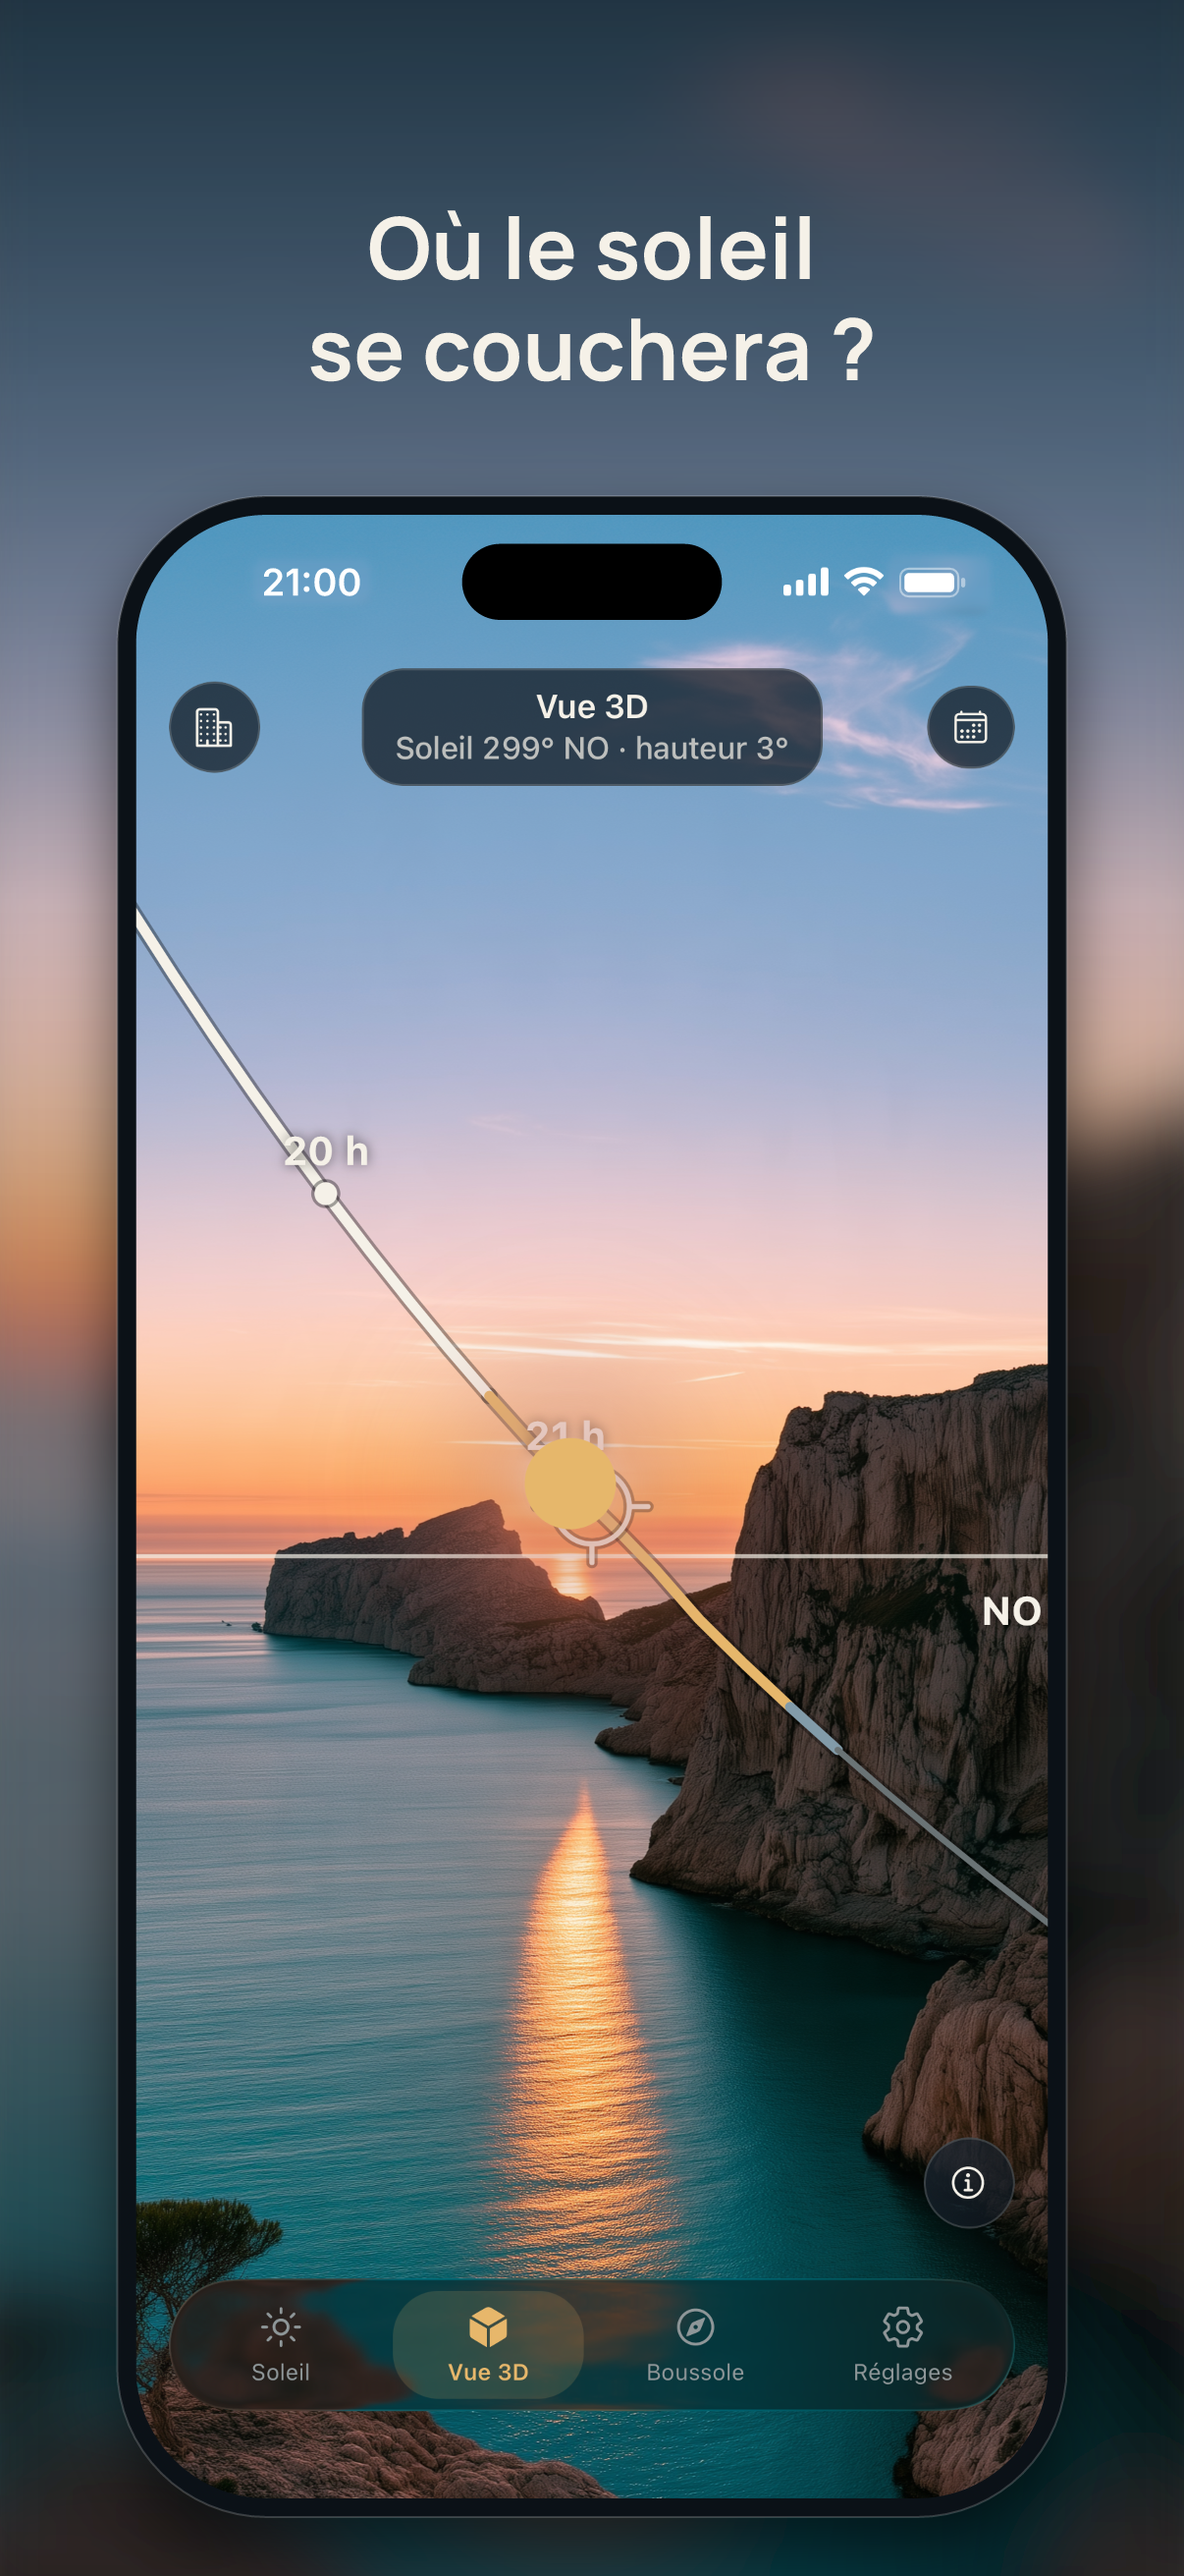
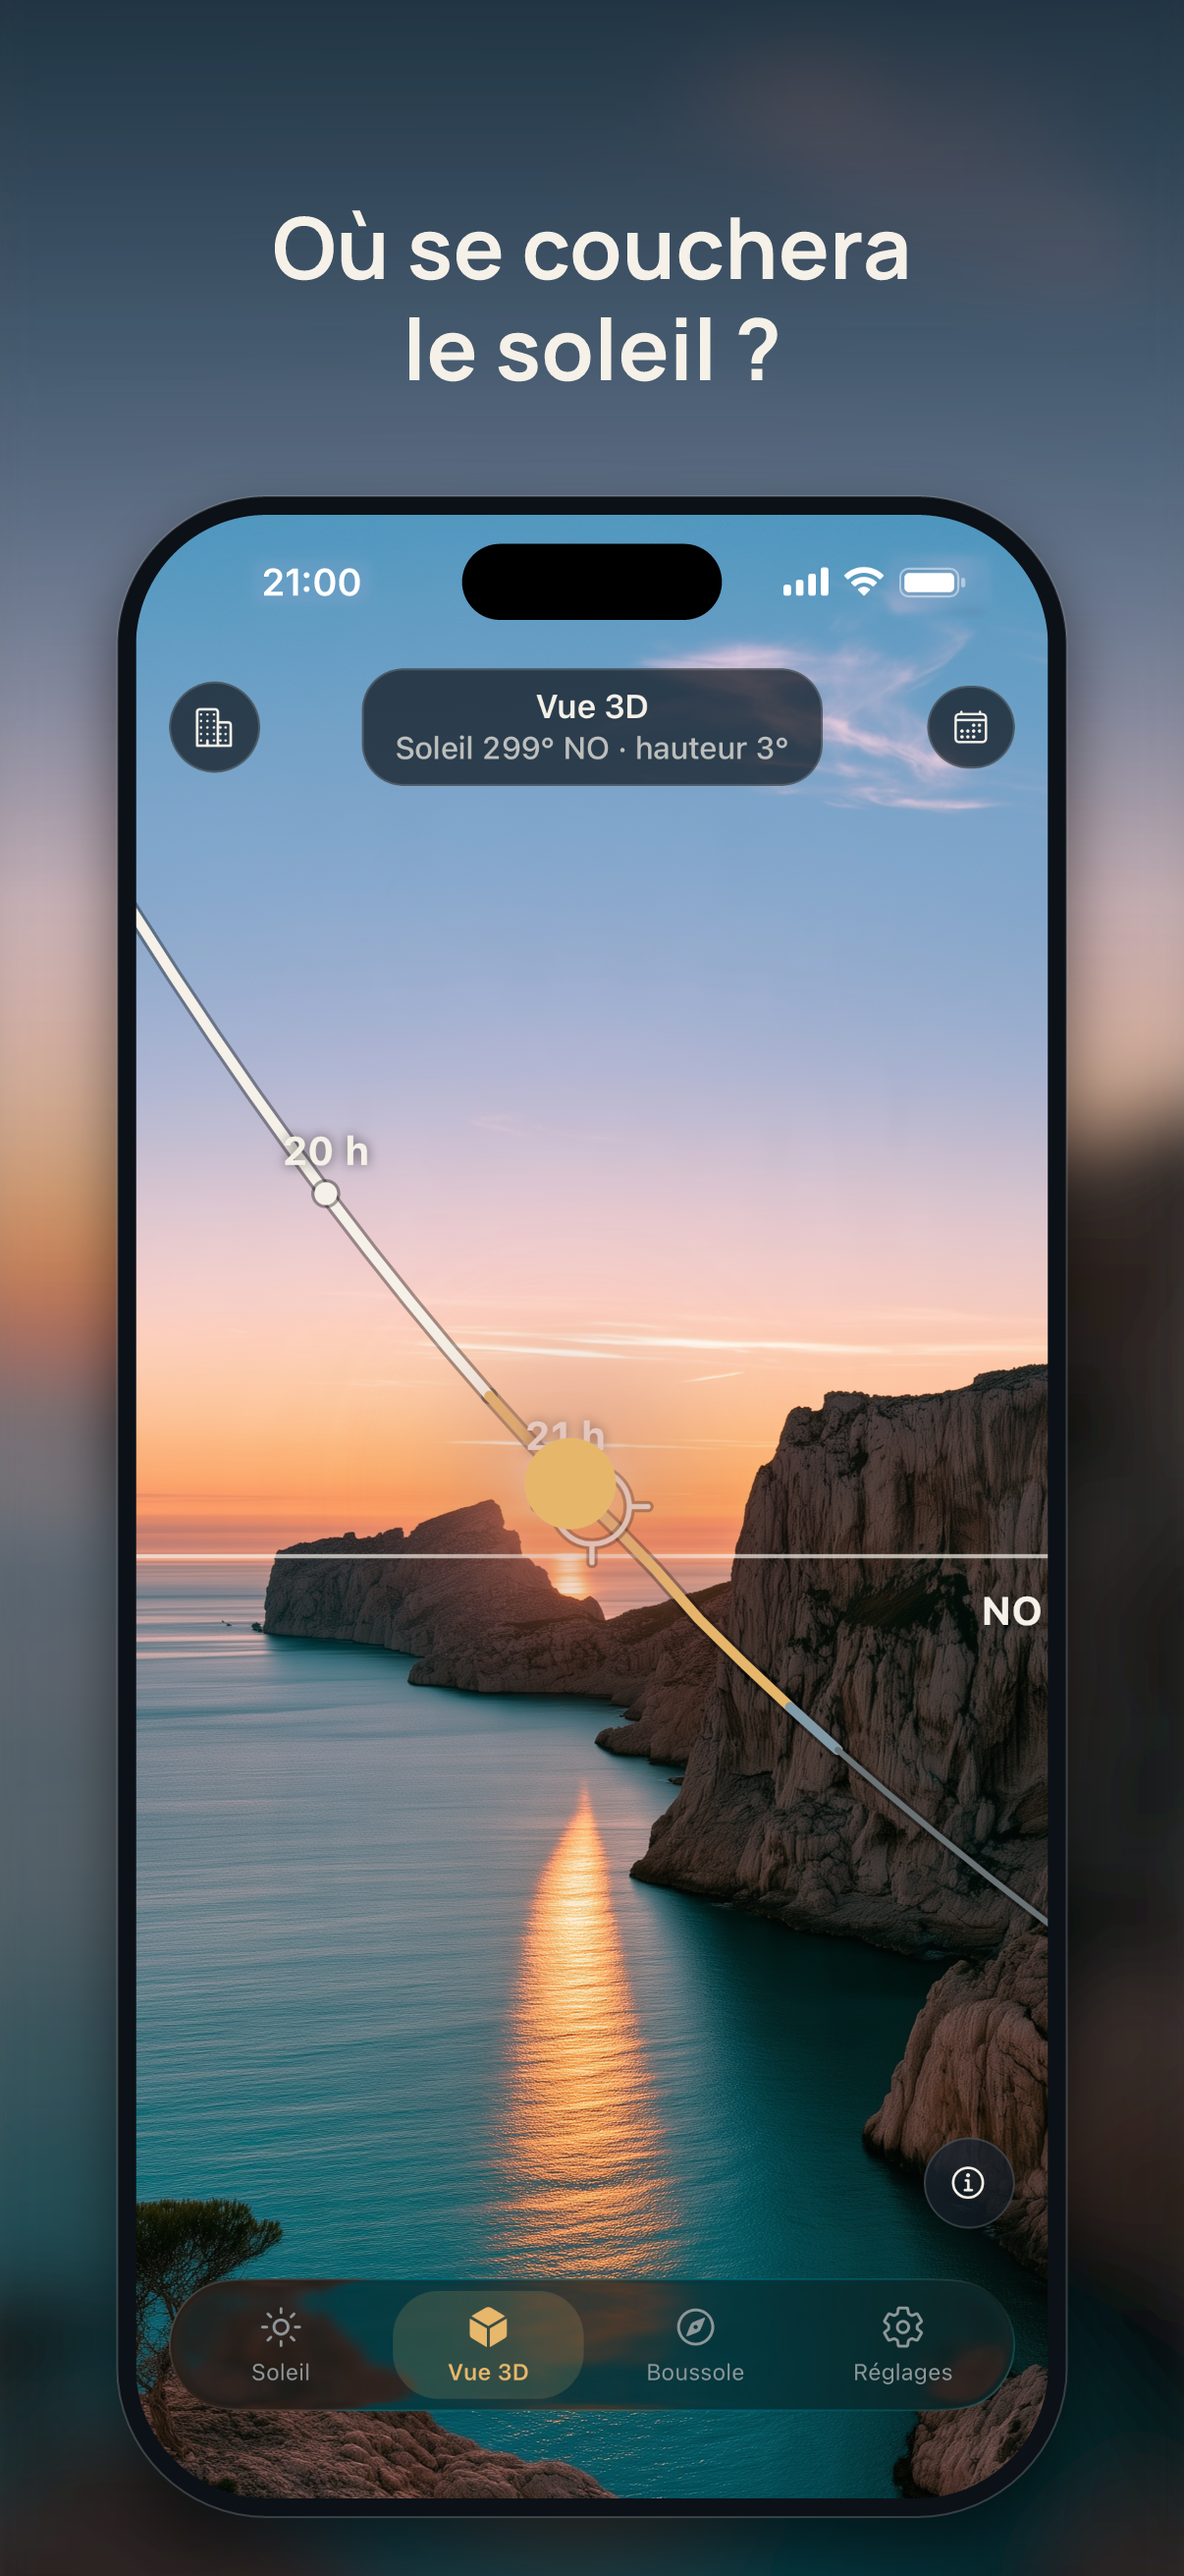
Store screens: reword the French coast title

Changed region(s): [[0.2148, 0.0618, 0.767, 0.1545]]

diff --git a/scripts/composeStoreScreens.js b/scripts/composeStoreScreens.js
@@ -60,7 +60,7 @@ const SCENES = [
     id: "coast",
     background: "coast.png",
     clock: "21:00",
-    titles: { fr: "Où le soleil\nse couchera ?", en: "Where will\nthe sun set?" },
+    titles: { fr: "Où se couchera\nle soleil ?", en: "Where will\nthe sun set?" },
   },
   {
     id: "apartment",
